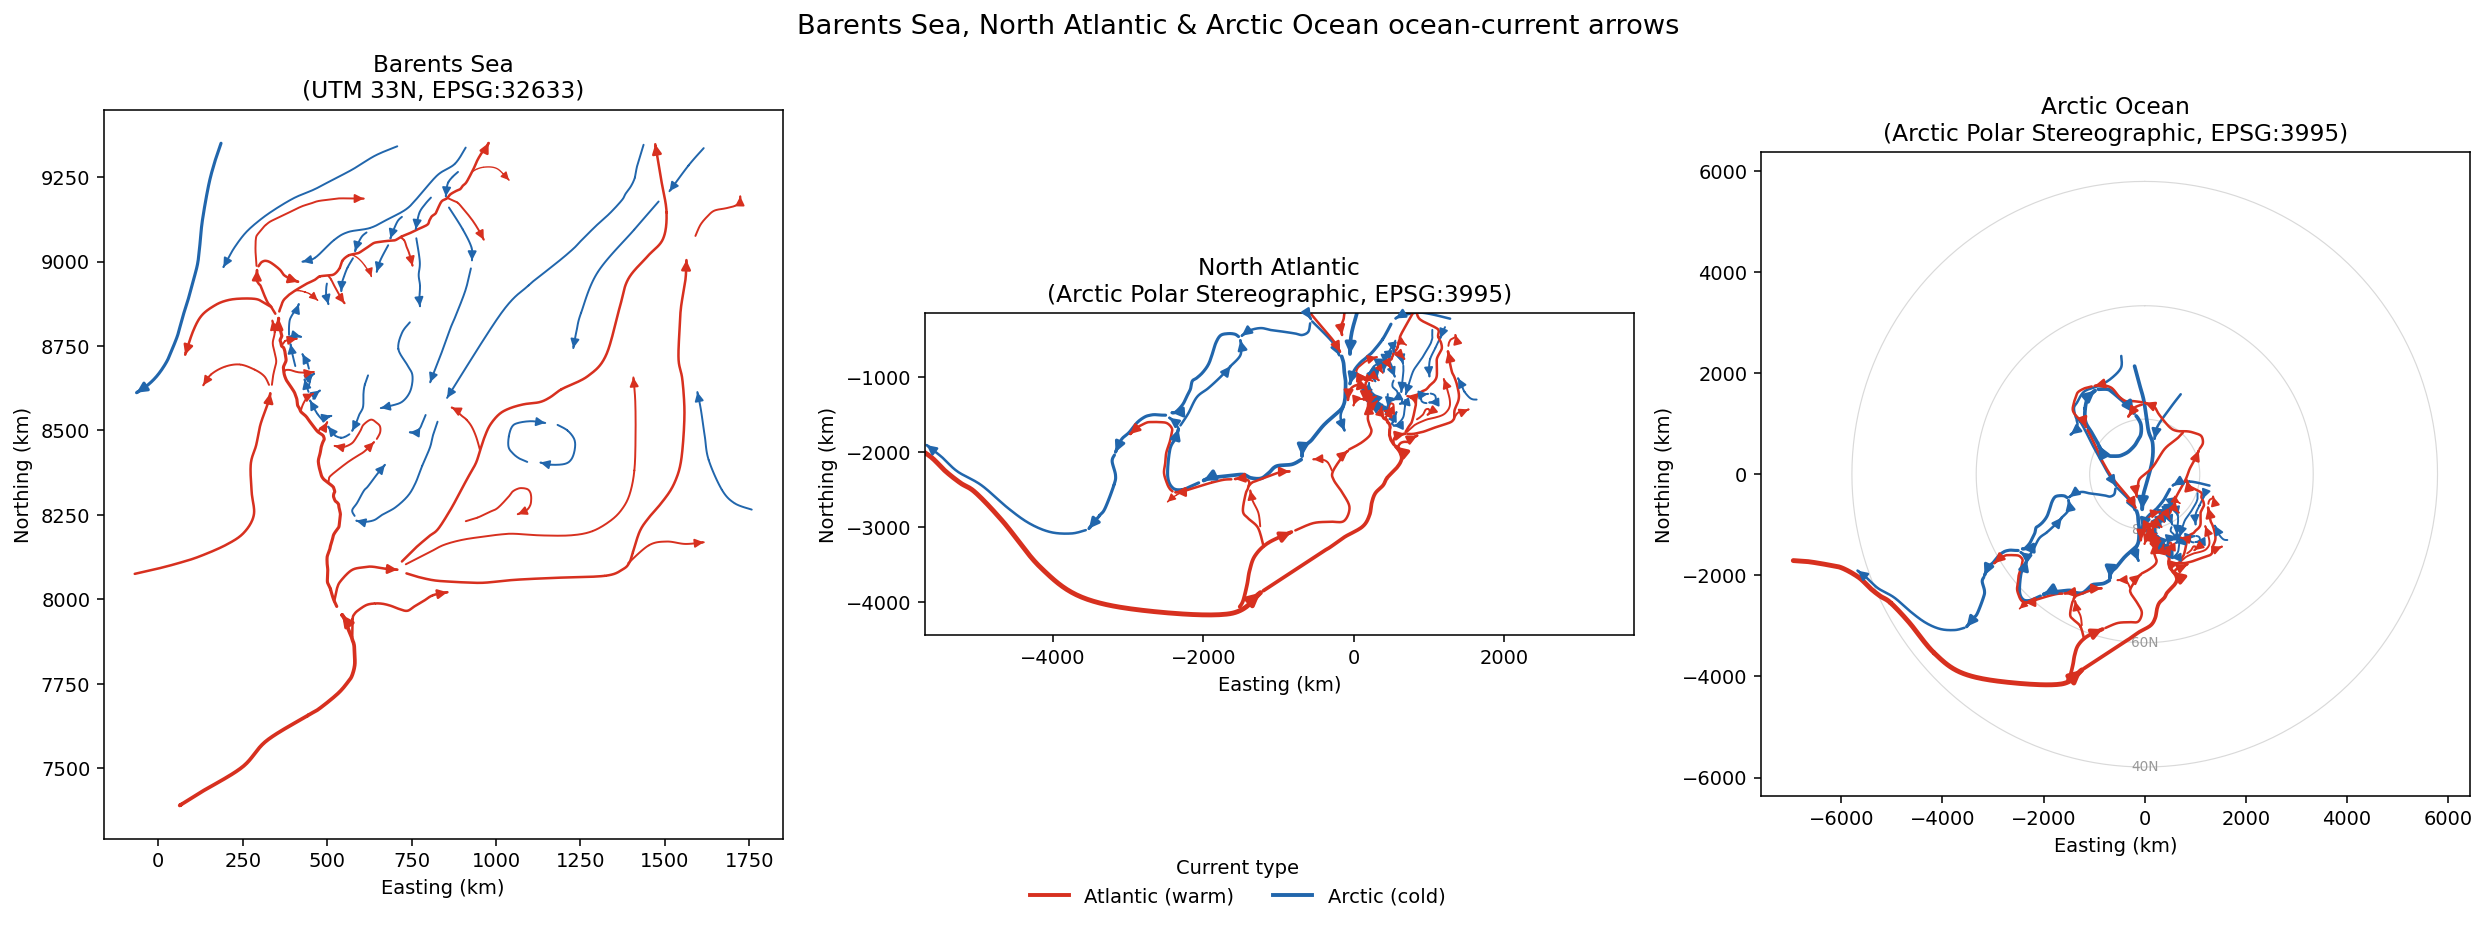
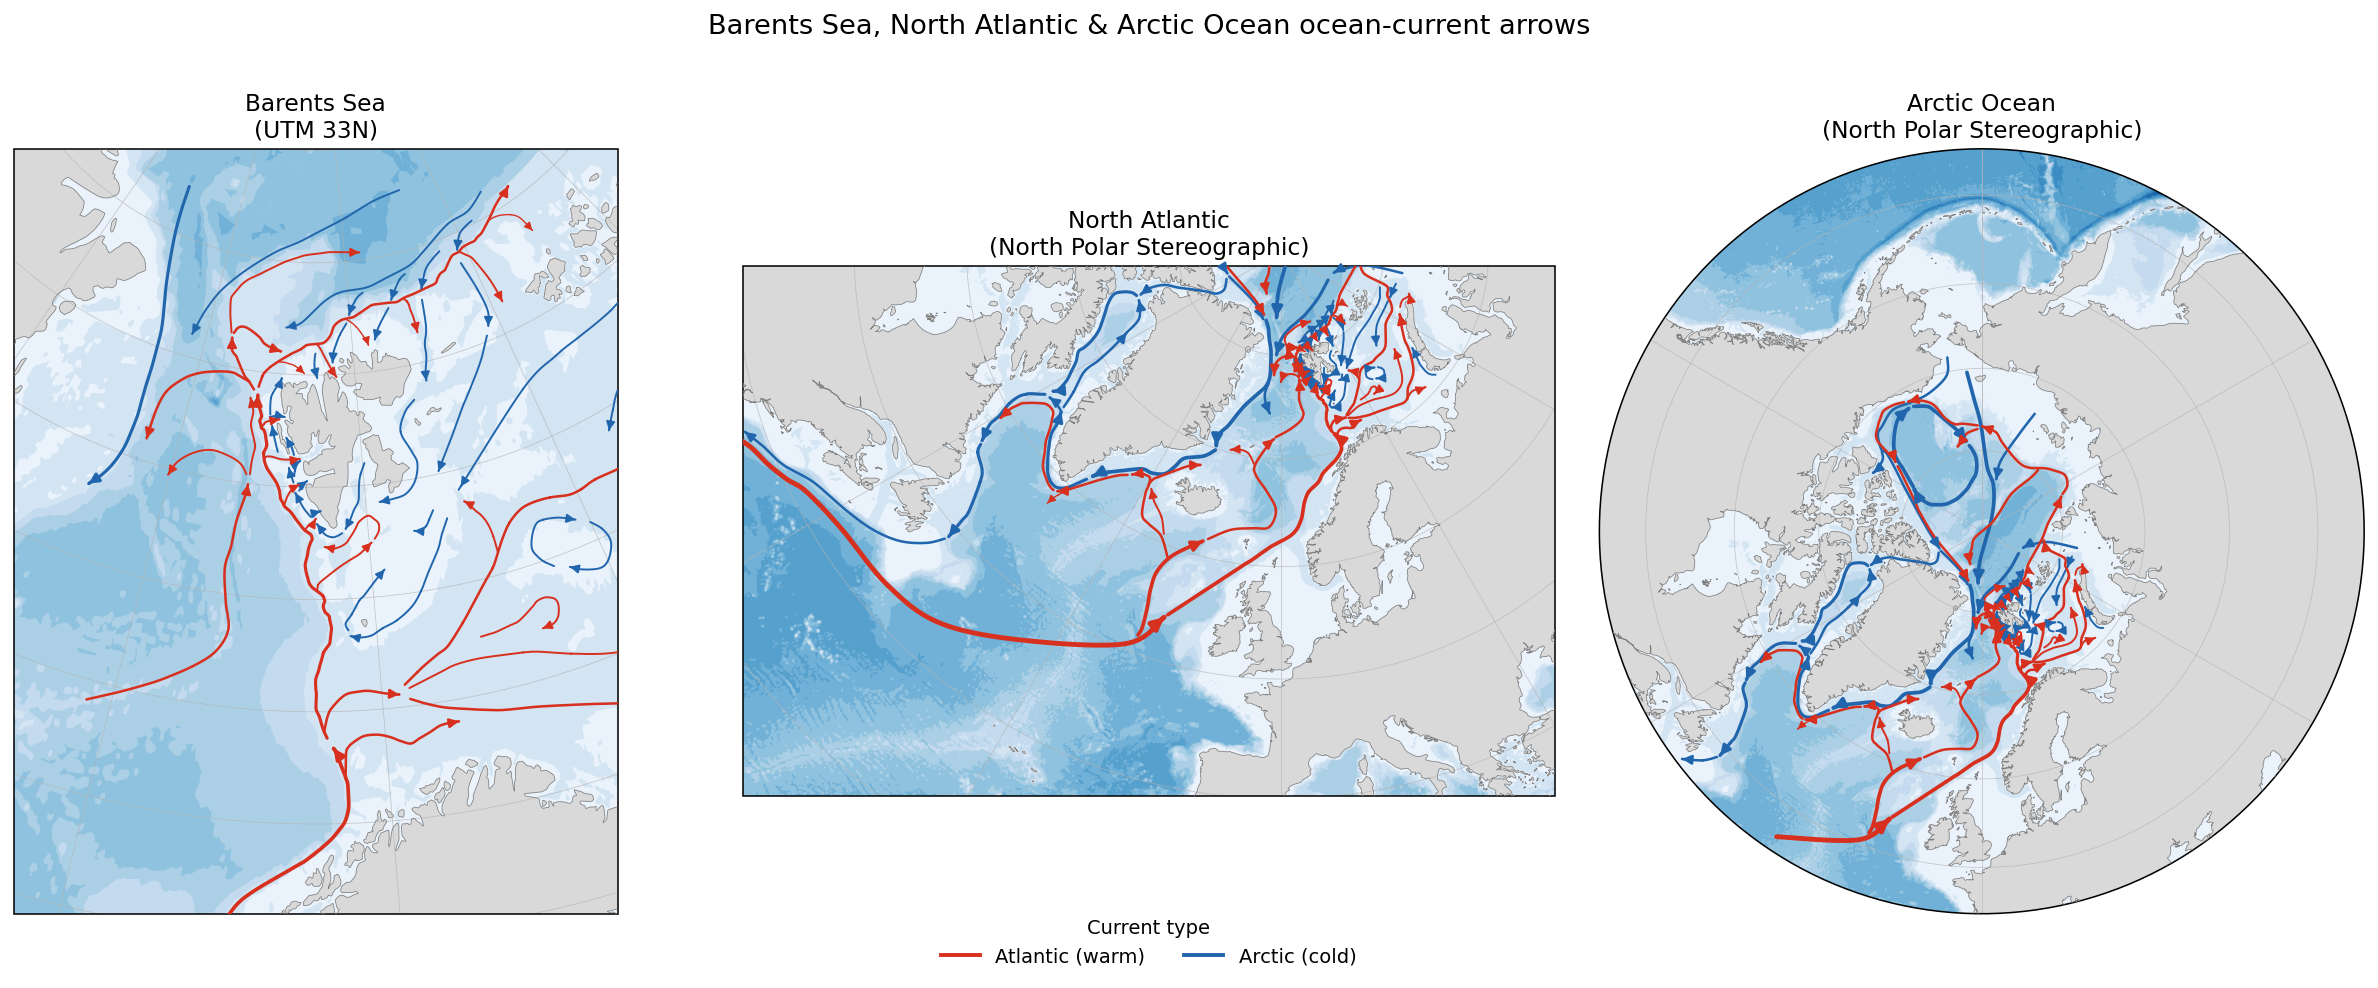
Use ggOceanMaps lead figures, bathymetric Python preview, complete NA citation
- Fill in the North Atlantic source citation (Vihtakari et al. 2022, ICES J.
  Mar. Sci. 79(6):1902-1917, doi:10.1093/icesjms/fsac127) in README.Rmd,
  README.md and CITATION.cff (full 18-author list in CITATION.cff).
- Make the README lead figures the three ggOceanMaps maps (Barents Sea, North
  Atlantic, Arctic Ocean) instead of the Python preview; render them with
  R/make_figures.R. Fix the pan-Arctic legend clipping (wider canvas) and clip
  the Atlantic-inflow arrows to the visible latitudes so they no longer dangle
  outside the circular extent.
- Rewrite python/plot_currents.py to draw the three panels over a bathymetric
  basemap (Natural Earth land + shaded depth) with cartopy, and move the preview
  under the Python section. Add cartopy to requirements.txt.
- Refresh CHANGELOG, DATA_DICTIONARY, llms.txt for the cartopy/bathymetry change.

diff --git a/python/plot_currents.py b/python/plot_currents.py
@@ -1,18 +1,24 @@
-"""Plot the ocean-current arrows in Python (matplotlib).
+"""Plot the ocean-current arrows in Python on a bathymetric basemap (cartopy).
 
 A self-contained example that reads the tidy CSV produced by ``produce_csv.py``
-and draws smoothed, directional current arrows coloured by water-mass type. It
-mirrors the three map examples in ``R/plot_currents.R`` (Barents Sea, North
-Atlantic, Arctic Ocean) for users who prefer Python.
+and draws smoothed, directional current arrows coloured by water-mass type over
+a shaded bathymetry + land basemap. It mirrors the three ggOceanMaps map
+examples in ``R/plot_currents.R`` (Barents Sea, North Atlantic, Arctic Ocean)
+for users who prefer Python.
 
 Two curated datasets drive the three panels:
-  * Barents Sea    -> regional arrows, drawn in UTM 33N (EPSG:32633).
-  * North Atlantic -> pan-Atlantic-to-Arctic arrows in Arctic Polar
-    Stereographic (EPSG:3995); the same set is shown cropped to a North
-    Atlantic extent and to a full pan-Arctic extent.
+  * Barents Sea    -> regional arrows, drawn in UTM 33N.
+  * North Atlantic -> pan-Atlantic-to-Arctic arrows in North Polar
+    Stereographic; the same set is shown cropped to a North Atlantic extent and
+    to a full pan-Arctic extent (vertices south of 45N dropped on the latter so
+    the Atlantic inflow does not dangle outside the circular map).
 
 Plotting in a projected CRS (not raw decimal degrees) keeps the trans-polar
 arrows from smearing across the 180 meridian.
+
+The basemap uses Natural Earth land and bathymetry (shaded depth bands), so the
+look is comparable to the ggOceanMaps figures. The vector layers are downloaded
+and cached by cartopy on first use.
 
 The node-to-curve smoothing uses a Catmull-Rom spline, reproducing the look of
 the X-spline (``graphics::xspline(..., shape = -0.6)``) used by the historical
@@ -23,7 +29,7 @@ Usage
     python python/produce_csv.py        # (re)build the CSVs first
     python python/plot_currents.py      # writes figure_files/python_preview.png
 
-Dependencies: pandas, numpy, matplotlib, pyproj (see requirements.txt).
+Dependencies: pandas, numpy, matplotlib, cartopy (see requirements.txt).
 """
 
 from __future__ import annotations
@@ -33,10 +39,12 @@ import os
 import matplotlib
 
 matplotlib.use("Agg")  # headless / reproducible rendering
+import cartopy.crs as ccrs
+import cartopy.feature as cfeature
+import matplotlib.path as mpath
 import matplotlib.pyplot as plt
 import numpy as np
 import pandas as pd
-from pyproj import Transformer
 
 HERE = os.path.dirname(os.path.dirname(os.path.abspath(__file__)))
 CSV = os.path.join(HERE, "tabular", "all_currents.csv")
@@ -45,13 +53,22 @@ OUT = os.path.join(HERE, "figure_files", "python_preview.png")
 COLORS = {"Atlantic": "#d7301f", "Arctic": "#2166ac"}  # warm = red, cold = blue
 LABELS = {"Atlantic": "Atlantic (warm)", "Arctic": "Arctic (cold)"}
 
-TO_POLAR = Transformer.from_crs("EPSG:4326", "EPSG:3995", always_xy=True)   # pan-Arctic
-TO_UTM33 = Transformer.from_crs("EPSG:4326", "EPSG:32633", always_xy=True)  # Barents
+# Map projections for the three panels (mirroring the ggOceanMaps CRSs).
+PROJ_BARENTS = ccrs.UTM(zone=33)                                   # ~ EPSG:32633
+PROJ_POLAR = ccrs.NorthPolarStereo(central_longitude=0, true_scale_latitude=71)  # ~ EPSG:3995
 
+LAND = "#d9d9d9"
+COAST = "#7f7f7f"
 
-def project_km(lon, lat, transformer):
-    x, y = transformer.transform(np.asarray(lon), np.asarray(lat))
-    return np.column_stack([x, y]) / 1000.0
+# Natural Earth bathymetry layers, shallow -> deep. Each polygon covers all
+# water deeper than its threshold, so painting shallow (light) first and deeper
+# (dark) on top yields graduated depth bands.
+BATHY_LEVELS = [
+    "bathymetry_K_200", "bathymetry_J_1000", "bathymetry_I_2000",
+    "bathymetry_H_3000", "bathymetry_G_4000", "bathymetry_F_5000",
+    "bathymetry_E_6000", "bathymetry_D_7000", "bathymetry_C_8000",
+    "bathymetry_B_9000", "bathymetry_A_10000",
+]
 
 
 def catmull_rom(points: np.ndarray, n_per_seg: int = 20) -> np.ndarray:
@@ -75,24 +92,40 @@ def catmull_rom(points: np.ndarray, n_per_seg: int = 20) -> np.ndarray:
     return np.vstack(out)
 
 
-def draw_currents(ax, df, transformer):
+def add_basemap(ax):
+    """Shaded bathymetry + land for a cartopy GeoAxes."""
+    ax.add_feature(cfeature.OCEAN.with_scale("50m"), facecolor="#eaf3fb", zorder=0)
+    blues = plt.cm.Blues(np.linspace(0.18, 0.95, len(BATHY_LEVELS)))
+    for name, color in zip(BATHY_LEVELS, blues):
+        feat = cfeature.NaturalEarthFeature("physical", name, "10m")
+        ax.add_feature(feat, facecolor=color, edgecolor="none", zorder=1)
+    ax.add_feature(cfeature.LAND.with_scale("50m"), facecolor=LAND, zorder=2)
+    ax.add_feature(cfeature.COASTLINE.with_scale("50m"), edgecolor=COAST,
+                   linewidth=0.4, zorder=3)
+    ax.gridlines(color="0.7", linewidth=0.4, alpha=0.7, zorder=4)
+
+
+def draw_currents(ax, df, proj):
+    """Project lon/lat arrows to ``proj``, smooth and draw them on ``ax``."""
     for _, g in df.sort_values("order").groupby("group"):
-        xy = catmull_rom(project_km(g["long"], g["lat"], transformer))
+        xyz = proj.transform_points(ccrs.PlateCarree(),
+                                     g["long"].to_numpy(), g["lat"].to_numpy())
+        xy = catmull_rom(xyz[:, :2])
         color = COLORS.get(g["type"].iloc[0], "grey")
         lw = 0.4 + 0.3 * float(g["size"].iloc[0])
-        ax.plot(xy[:, 0], xy[:, 1], color=color, lw=lw, solid_capstyle="round")
-        ax.annotate("", xy=xy[-1], xytext=xy[-3],
+        ax.plot(xy[:, 0], xy[:, 1], color=color, lw=lw, solid_capstyle="round",
+                transform=proj, zorder=5)
+        ax.annotate("", xy=xy[-1], xytext=xy[-3], xycoords="data", zorder=6,
+                    annotation_clip=True,  # drop arrowheads whose tip falls outside the map
                     arrowprops=dict(arrowstyle="-|>", color=color, lw=lw,
                                     mutation_scale=7 + 2 * lw))
 
 
-def latitude_circles(ax, lats):
-    for lat in lats:
-        ring = project_km(np.linspace(-180, 180, 361), np.full(361, lat), TO_POLAR)
-        ax.plot(ring[:, 0], ring[:, 1], color="0.85", lw=0.6, zorder=0)
-        top = project_km([0], [lat], TO_POLAR)[0]
-        ax.text(top[0], top[1], f"{lat}N", color="0.6", fontsize=7,
-                ha="center", va="center", zorder=0)
+def circular_boundary(ax):
+    """Clip a polar GeoAxes to a circle (for the pan-Arctic view)."""
+    theta = np.linspace(0, 2 * np.pi, 200)
+    verts = np.column_stack([np.sin(theta), np.cos(theta)]) * 0.5 + 0.5
+    ax.set_boundary(mpath.Path(verts), transform=ax.transAxes)
 
 
 def main():
@@ -102,37 +135,38 @@ def main():
     barents = df[df.region == "Barents Sea"]
     natl = df[df.region == "North Atlantic"]
 
-    fig, axes = plt.subplots(1, 3, figsize=(18, 6.5))
+    fig = plt.figure(figsize=(18, 7))
 
     # Panel 1: Barents Sea (UTM 33N)
-    draw_currents(axes[0], barents, TO_UTM33)
-    axes[0].set_title("Barents Sea\n(UTM 33N, EPSG:32633)")
+    ax1 = fig.add_subplot(1, 3, 1, projection=PROJ_BARENTS)
+    ax1.set_extent([-5, 60, 68, 83], crs=ccrs.PlateCarree())
+    add_basemap(ax1)
+    draw_currents(ax1, barents, PROJ_BARENTS)
+    ax1.set_title("Barents Sea\n(UTM 33N)")
 
     # Panel 2: North Atlantic extent (polar stereographic, cropped to Atlantic)
-    draw_currents(axes[1], natl, TO_POLAR)
-    box = project_km([-80, 40, -80, 40], [40, 40, 82, 82], TO_POLAR)
-    axes[1].set_xlim(box[:, 0].min(), box[:, 0].max())
-    axes[1].set_ylim(box[:, 1].min(), box[:, 1].max())
-    axes[1].set_title("North Atlantic\n(Arctic Polar Stereographic, EPSG:3995)")
+    ax2 = fig.add_subplot(1, 3, 2, projection=PROJ_POLAR)
+    ax2.set_extent([-80, 30, 40, 82], crs=ccrs.PlateCarree())
+    add_basemap(ax2)
+    draw_currents(ax2, natl, PROJ_POLAR)
+    ax2.set_title("North Atlantic\n(North Polar Stereographic)")
 
-    # Panel 3: Arctic Ocean / pan-Arctic (polar stereographic, full extent)
-    latitude_circles(axes[2], (40, 60, 80))
-    draw_currents(axes[2], natl, TO_POLAR)
-    axes[2].set_title("Arctic Ocean\n(Arctic Polar Stereographic, EPSG:3995)")
-
-    for ax in axes:
-        ax.set_aspect("equal")
-        ax.set_xlabel("Easting (km)")
-        ax.set_ylabel("Northing (km)")
+    # Panel 3: Arctic Ocean / pan-Arctic (polar stereographic, circular extent)
+    ax3 = fig.add_subplot(1, 3, 3, projection=PROJ_POLAR)
+    ax3.set_extent([-180, 180, 45, 90], crs=ccrs.PlateCarree())
+    circular_boundary(ax3)
+    add_basemap(ax3)
+    draw_currents(ax3, natl[natl.lat >= 45], PROJ_POLAR)  # drop arrows south of view
+    ax3.set_title("Arctic Ocean\n(North Polar Stereographic)")
 
     handles = [plt.Line2D([], [], color=c, lw=2, label=LABELS[t]) for t, c in COLORS.items()]
     fig.legend(handles=handles, title="Current type", loc="lower center",
-               ncol=2, frameon=False, bbox_to_anchor=(0.5, -0.02))
+               ncol=2, frameon=False, bbox_to_anchor=(0.5, -0.01))
     fig.suptitle("Barents Sea, North Atlantic & Arctic Ocean ocean-current arrows",
                  fontsize=14)
 
     os.makedirs(os.path.dirname(OUT), exist_ok=True)
-    fig.tight_layout(rect=(0, 0.03, 1, 0.97))
+    fig.tight_layout(rect=(0, 0.04, 1, 0.96))
     fig.savefig(OUT, dpi=140, bbox_inches="tight")
     print(f"wrote {os.path.relpath(OUT, HERE)}")
 

diff --git a/README.md b/README.md
@@ -23,11 +23,16 @@ Research) and complemented by the knowledge of oceanographers/researchers at the
 Norwegian Polar Institute (Arild Sundfjord, Laura de Steur, Mikko Vihtakari).
 They are meant to stay updated; see *Contact information*.
 
-![Barents Sea, North Atlantic and Arctic Ocean ocean-current arrows](figure_files/python_preview.png)
+![Barents Sea ocean-current arrows](figure_files/barents_currents.png)
+
+![North Atlantic ocean-current arrows](figure_files/north_atlantic_currents.png)
+
+![Arctic Ocean ocean-current arrows](figure_files/arctic_ocean_currents.png)
 
 *The three map examples — Barents Sea, North Atlantic, and Arctic Ocean
 (warm/Atlantic in red, cold/Arctic in blue) — produced by
-[`python/plot_currents.py`](python/plot_currents.py).*
+[`R/make_figures.R`](R/make_figures.R) with
+[ggOceanMaps](https://mikkovihtakari.github.io/ggOceanMaps/).*
 
 The repository holds **two curated datasets** that drive **three map examples**:
 the detailed **Barents Sea** arrows, and the **North Atlantic** warm/cold
@@ -45,7 +50,7 @@ tabular/           Tidy CSV products (generated)
   north_atlantic_currents.csv  North Atlantic
   all_currents.csv             Barents Sea + North Atlantic
 R/                 R pipeline (sf + ggOceanMaps)
-python/            Python pipeline (geopandas + matplotlib)
+python/            Python pipeline (geopandas + cartopy)
 figure_files/      Ready-made / preview maps
 ```
 
@@ -79,7 +84,7 @@ Complete, ready-to-run examples for both the Barents Sea and the North Atlantic
 are in [`R/plot_currents.R`](R/plot_currents.R); render publication figures with
 [`R/make_figures.R`](R/make_figures.R).
 
-### Python (geopandas + matplotlib)
+### Python (geopandas + cartopy)
 
 ```bash
 pip install -r requirements.txt
@@ -89,7 +94,15 @@ python python/plot_currents.py   # -> figure_files/python_preview.png
 
 [`python/plot_currents.py`](python/plot_currents.py) reads
 [`tabular/all_currents.csv`](tabular/all_currents.csv), smooths the arrows with a
-Catmull-Rom spline, and plots them in Arctic Polar Stereographic projection.
+Catmull-Rom spline, and draws the same three map examples over a bathymetric
+basemap (Natural Earth land + shaded depth) with cartopy — the Barents Sea panel
+in UTM 33N, the North Atlantic and Arctic Ocean panels in North Polar
+Stereographic.
+
+![Python preview: the three map examples on a bathymetric basemap](figure_files/python_preview.png)
+
+*The Python workflow reproduces the three map examples on a bathymetry basemap,
+produced by [`python/plot_currents.py`](python/plot_currents.py).*
 
 ## Smoothing
 
@@ -142,9 +155,10 @@ towards monitoring of the Barents Sea ecosystem. Progress in Oceanography, 166,
 
 The North Atlantic and Arctic Ocean arrows are based on:
 
-<!-- TODO: confirm authors and title -->
-\[authors\] (2022) \[title\]. *ICES Journal of Marine Science*, 79(6), 1902.
-<https://academic.oup.com/icesjms/article/79/6/1902/6646040>
+Vihtakari M, Elvarsson BÞ, Treble M et al. (2022) Migration patterns of
+Greenland halibut in the North Atlantic revealed by a compiled mark–recapture
+dataset. *ICES Journal of Marine Science*, 79(6), 1902–1917.
+<https://doi.org/10.1093/icesjms/fsac127>
 
 ## Contact information
 

diff --git a/CHANGELOG.md b/CHANGELOG.md
@@ -16,8 +16,13 @@
   `broom` dependencies. New scripts: `R/produce_csv.R`, `R/plot_currents.R`,
   `R/make_figures.R` (using `sf` + `smoothr`).
 - **Added a Python pipeline**: `python/produce_csv.py` (geopandas) and
-  `python/plot_currents.py` (matplotlib, Arctic Polar Stereographic preview),
-  with `requirements.txt`.
+  `python/plot_currents.py` (cartopy, three-panel preview on a bathymetric
+  basemap), with `requirements.txt`.
+- **README lead figures** use the ggOceanMaps maps from `R/make_figures.R`; the
+  cartopy bathymetry preview is shown under the Python section.
+- **Completed the North Atlantic source citation**: Vihtakari et al. (2022),
+  *ICES Journal of Marine Science* 79(6):1902–1917,
+  [doi:10.1093/icesjms/fsac127](https://doi.org/10.1093/icesjms/fsac127).
 - **New tidy CSV products**: `tabular/north_atlantic_currents.csv` and
   `tabular/all_currents.csv` (combined, harmonized schema with a `region`
   column). `tabular/barents_currents.csv` retained for backward compatibility.

diff --git a/DATA_DICTIONARY.md b/DATA_DICTIONARY.md
@@ -28,7 +28,7 @@ tabular/                         Derived, tidy CSV products (generated)
   north_atlantic_currents.csv    North Atlantic only            (generated)
   all_currents.csv               Barents Sea + North Atlantic   (generated)
 R/                               Modern R pipeline (sf + ggOceanMaps)
-python/                          Modern Python pipeline (geopandas + matplotlib)
+python/                          Modern Python pipeline (geopandas + cartopy)
 figure_files/                    Ready-made / preview maps
 ```
 